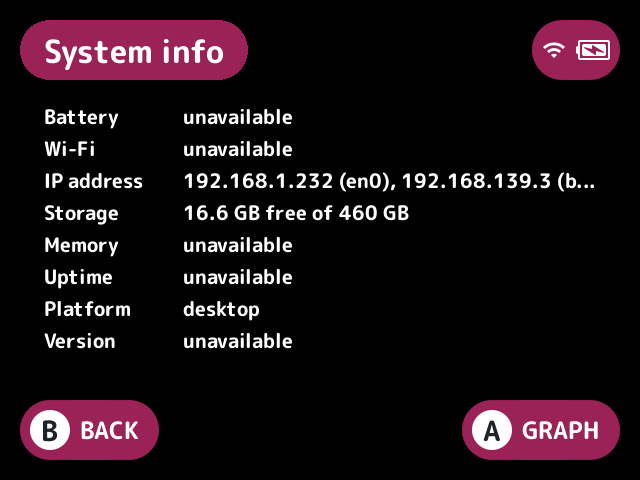
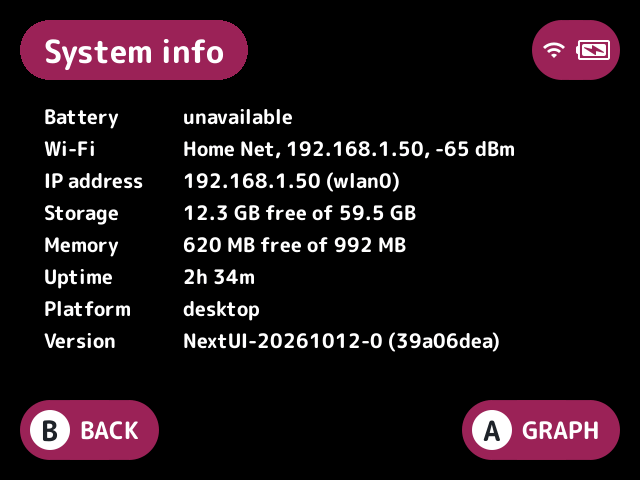
docs: show sample device values in system-info's shot
The system-info screenshot showed the computer's own addresses and disk; it now shows a device's sample values, set only for the screenshots.

Changed region(s): [[0.2812, 0.2812, 0.9375, 0.5312], [0.2812, 0.6875, 0.7812, 0.75], [0.2812, 0.5625, 0.4688, 0.5938]]

diff --git a/tests/screenshots/device.c b/tests/screenshots/device.c
@@ -1,0 +1,126 @@
+// Not a plugin: a library scripts/screenshots.sh preloads into the desktop
+// build beside presser, so a shot can show a device's sample values in place
+// of the computer's own, such as system-info's IP address and storage. It
+// changes nothing unless its variables are set:
+//
+//   DEVICE_IP       an interface and IPv4 address, eg. "wlan0 192.168.1.50":
+//                   getifaddrs lists only it
+//   DEVICE_STORAGE  free and total bytes, eg. "13207024435 63887638528":
+//                   statvfs answers them for every path
+//   DEVICE_MEMINFO  text /proc/meminfo reads as
+//   DEVICE_UPTIME   text /proc/uptime reads as, eg. "9240.00 0.00"
+
+#define _GNU_SOURCE
+#include <arpa/inet.h>
+#include <dlfcn.h>
+#include <ifaddrs.h>
+#include <net/if.h>
+#include <netinet/in.h>
+#include <stdio.h>
+#include <stdlib.h>
+#include <string.h>
+#include <sys/socket.h>
+#include <sys/statvfs.h>
+
+static struct ifaddrs* fake_list = NULL; // the list handed out, for freeIfaddrs
+
+static int fakeIfaddrs(struct ifaddrs** out) {
+	const char* spec = getenv("DEVICE_IP");
+	char name[IFNAMSIZ] = "", addr[64] = "";
+	if (!spec || sscanf(spec, "%15s %63s", name, addr) != 2) return -1;
+	struct ifaddrs* entry = calloc(1, sizeof(*entry) + sizeof(struct sockaddr_in) + strlen(name) + 1);
+	if (!entry) return -1;
+	struct sockaddr_in* sin = (struct sockaddr_in*)(entry + 1);
+	char* copy = (char*)(sin + 1);
+	strcpy(copy, name);
+	sin->sin_family = AF_INET;
+	if (inet_pton(AF_INET, addr, &sin->sin_addr) != 1) {
+		free(entry);
+		return -1;
+	}
+	entry->ifa_name = copy;
+	entry->ifa_flags = IFF_UP | IFF_RUNNING;
+	entry->ifa_addr = (struct sockaddr*)sin;
+	fake_list = entry;
+	*out = entry;
+	return 0;
+}
+
+static int fakeStatvfs(struct statvfs* st) {
+	const char* spec = getenv("DEVICE_STORAGE");
+	unsigned long long free_bytes = 0, total = 0;
+	if (!spec || sscanf(spec, "%llu %llu", &free_bytes, &total) != 2) return -1;
+	memset(st, 0, sizeof(*st));
+	st->f_bsize = st->f_frsize = 4096;
+	st->f_blocks = (fsblkcnt_t)(total / 4096);
+	st->f_bfree = st->f_bavail = (fsblkcnt_t)(free_bytes / 4096);
+	return 0;
+}
+
+// The text a /proc file reads as, or NULL to read the real one.
+static const char* fakeProc(const char* path) {
+	if (!path) return NULL;
+	if (!strcmp(path, "/proc/meminfo")) return getenv("DEVICE_MEMINFO");
+	if (!strcmp(path, "/proc/uptime")) return getenv("DEVICE_UPTIME");
+	return NULL;
+}
+
+#ifdef __APPLE__
+// dyld's interposing, as in presser
+static int getIfaddrs(struct ifaddrs** out) {
+	if (getenv("DEVICE_IP")) return fakeIfaddrs(out);
+	return getifaddrs(out);
+}
+static void freeIfaddrs(struct ifaddrs* list) {
+	if (list && list == fake_list) {
+		fake_list = NULL;
+		free(list);
+		return;
+	}
+	freeifaddrs(list);
+}
+static int statVfs(const char* path, struct statvfs* st) {
+	if (getenv("DEVICE_STORAGE")) return fakeStatvfs(st);
+	return statvfs(path, st);
+}
+static FILE* fOpen(const char* path, const char* mode) {
+	const char* text = fakeProc(path);
+	if (text) return fmemopen((void*)text, strlen(text), "r");
+	return fopen(path, mode);
+}
+
+#define INTERPOSE(replacement, replacee) \
+	__attribute__((used)) static const struct { const void* a; const void* b; } interpose_##replacee \
+	__attribute__((section("__DATA,__interpose"))) = { (const void*)&replacement, (const void*)&replacee }
+INTERPOSE(getIfaddrs, getifaddrs);
+INTERPOSE(freeIfaddrs, freeifaddrs);
+INTERPOSE(statVfs, statvfs);
+INTERPOSE(fOpen, fopen);
+#else
+// LD_PRELOAD: these come before libc's, which they find with RTLD_NEXT.
+int getifaddrs(struct ifaddrs** out) {
+	if (getenv("DEVICE_IP")) return fakeIfaddrs(out);
+	int (*real)(struct ifaddrs**) = (int (*)(struct ifaddrs**))dlsym(RTLD_NEXT, "getifaddrs");
+	return real ? real(out) : -1;
+}
+void freeifaddrs(struct ifaddrs* list) {
+	if (list && list == fake_list) {
+		fake_list = NULL;
+		free(list);
+		return;
+	}
+	void (*real)(struct ifaddrs*) = (void (*)(struct ifaddrs*))dlsym(RTLD_NEXT, "freeifaddrs");
+	if (real) real(list);
+}
+int statvfs(const char* path, struct statvfs* st) {
+	if (getenv("DEVICE_STORAGE")) return fakeStatvfs(st);
+	int (*real)(const char*, struct statvfs*) = (int (*)(const char*, struct statvfs*))dlsym(RTLD_NEXT, "statvfs");
+	return real ? real(path, st) : -1;
+}
+FILE* fopen(const char* path, const char* mode) {
+	const char* text = fakeProc(path);
+	if (text) return fmemopen((void*)text, strlen(text), "r");
+	FILE* (*real)(const char*, const char*) = (FILE * (*)(const char*, const char*)) dlsym(RTLD_NEXT, "fopen");
+	return real ? real(path, mode) : NULL;
+}
+#endif

diff --git a/docs/DEVELOPMENT.md b/docs/DEVELOPMENT.md
@@ -113,7 +113,7 @@ shot with-row-badges
 | `after <ms>` | Keeps the frame this long after the last press, such as partway through an animation |
 | `shot <name>` | Starts the launcher and saves `plugins/<id>/docs/<name>.png` |
 
-A block can also change the card under `$CARD`, or the launcher's state under `$STATE`, before its shot. On the first screen of the sample card the rows are Recently Played, Collections, Game Boy, Game Boy Color, Nintendo Entertainment System, then plugins' rows and Tools, and Collections has Favorites and Homebrew, which lists all six games. Under a layout plugin, right steps through the entries in order. A plugin's only quick menu tile is the last one, so `menu left` selects it.
+A block can also change the card under `$CARD`, or the launcher's state under `$STATE`, before its shot, or export variables for a device's sample values in place of the computer's: `MOSAIC_LAUNCHER_WIFI_FAKE` for Wi-Fi, and `tests/screenshots/device.c`'s, a library preloaded beside presser, for the IP address, storage, memory and uptime (see `system-info.sh`). On the first screen of the sample card the rows are Recently Played, Collections, Game Boy, Game Boy Color, Nintendo Entertainment System, then plugins' rows and Tools, and Collections has Favorites and Homebrew, which lists all six games. Under a layout plugin, right steps through the entries in order. A plugin's only quick menu tile is the last one, so `menu left` selects it.
 
 A plugin with visible UI gets one shot with its default settings, one for each setting that changes what's drawn, and one for each plugin it works with that changes what it draws, named `with-<id>`. A plugin with nothing on screen gets none. Run `make screenshots SHOTS=<id>`, look at each picture, and embed each in the plugin's README under a Screenshots heading, after a line saying what setting or pairing it shows:
 
